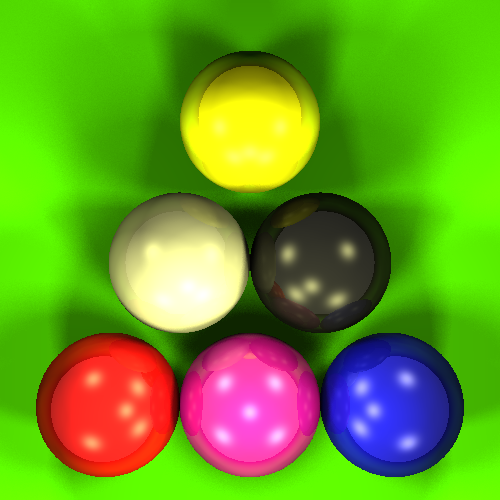
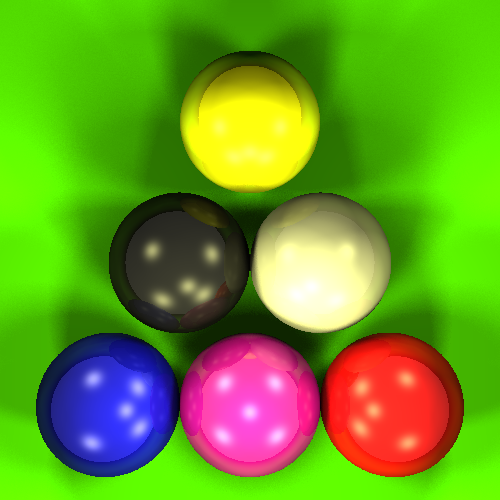
Refactor camera.py to correct normalized screen coordinate calculations by flipping x and y axes. Remove obsolete benchmark images from output directory.

Changed region(s): [[0.06, 0.36, 0.93, 0.96]]

diff --git a/camera.py b/camera.py
@@ -80,8 +80,8 @@ class Camera:
         yy = yy.ravel()
         
         # Convert pixel coordinates to normalized screen coordinates [-0.5, 0.5]
-        px = (xx + 0.5) / image_width - 0.5
-        py = 0.5 - (yy + 0.5) / image_height
+        px = 0.5 - (xx + 0.5) / image_width   # flip x, ranges from -0.5 to 0.5
+        py = 0.5 - (yy + 0.5) / image_height  # flip y, ranges from -0.5 to 0.5
         
         # Scale to screen dimensions
         px *= self.screen_width
@@ -136,8 +136,8 @@ class Camera:
         yy = yy.ravel()
         
         # Convert to normalized screen coordinates
-        px = (xx + 0.5) / image_width - 0.5
-        py = 0.5 - (yy + 0.5) / image_height
+        px = 0.5 - (xx + 0.5) / image_width   # flip x, ranges from -0.5 to 0.5
+        py = 0.5 - (yy + 0.5) / image_height  # flip y, ranges from -0.5 to 0.5
         
         px *= self.screen_width
         py *= self.screen_height
